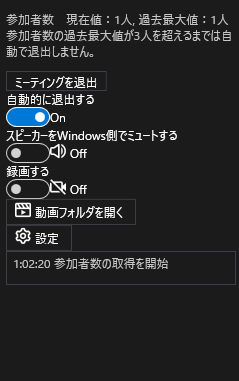
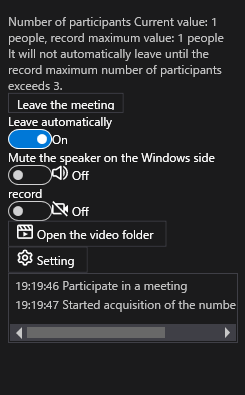
Updated Readme.ja.md

Changed region(s): [[0.0, 0.0289, 0.9958, 0.8661]]

diff --git a/README.ja.md b/README.ja.md
@@ -2,7 +2,7 @@
 
 Zoomミーティングの退出忘れを防いでくれるWindowsソフトウェアです。
 
-![Sample](https://github.com/34j/ZoomCloser/blob/master/Example.png)
+![Sample](https://github.com/34j/ZoomCloser/blob/master/Example.png) ![Sample](https://github.com/34j/ZoomCloser/blob/master/Example.ja.png)
 
 
 ## インストール
@@ -13,7 +13,7 @@ Releasesから最新のものをダウンロードしてください。
 ## 必要条件
 
 - .NET 6.0
-- Windows10.0.17763.0
+- Windows10.0.17763.0 x86
 
 ## 機能
 
@@ -21,6 +21,8 @@ Releasesから最新のものをダウンロードしてください。
 - ミーティングの音声をZoomの機能ではなくWindowsの機能でミュートします。
 - ミーティングを録画します。
 - ミーティングに参加した時刻、ミーティングから退出した時刻を記録します。
+- 多言語サポート（英語、中国語、スペイン語、ヒンディー語、フランス語、ロシア語、日本語、韓国語など）
+- スタートアップに自身を自動的に登録し、コンピュータの起動時に自動的に起動します。
 
 ## ライセンスの注意事項
 
